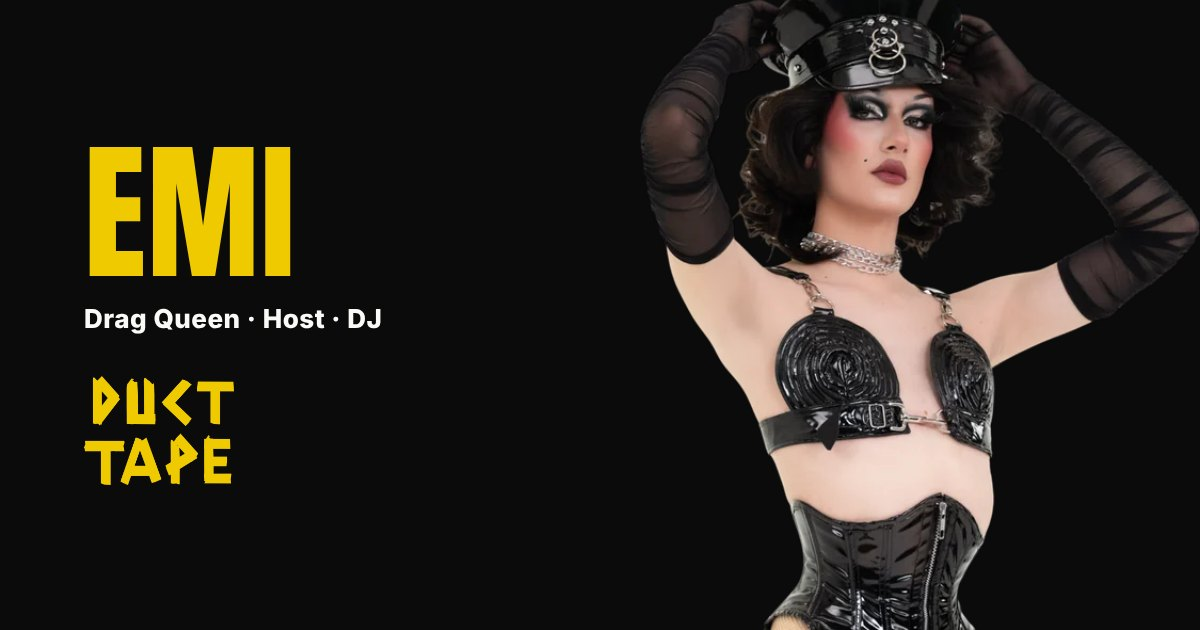
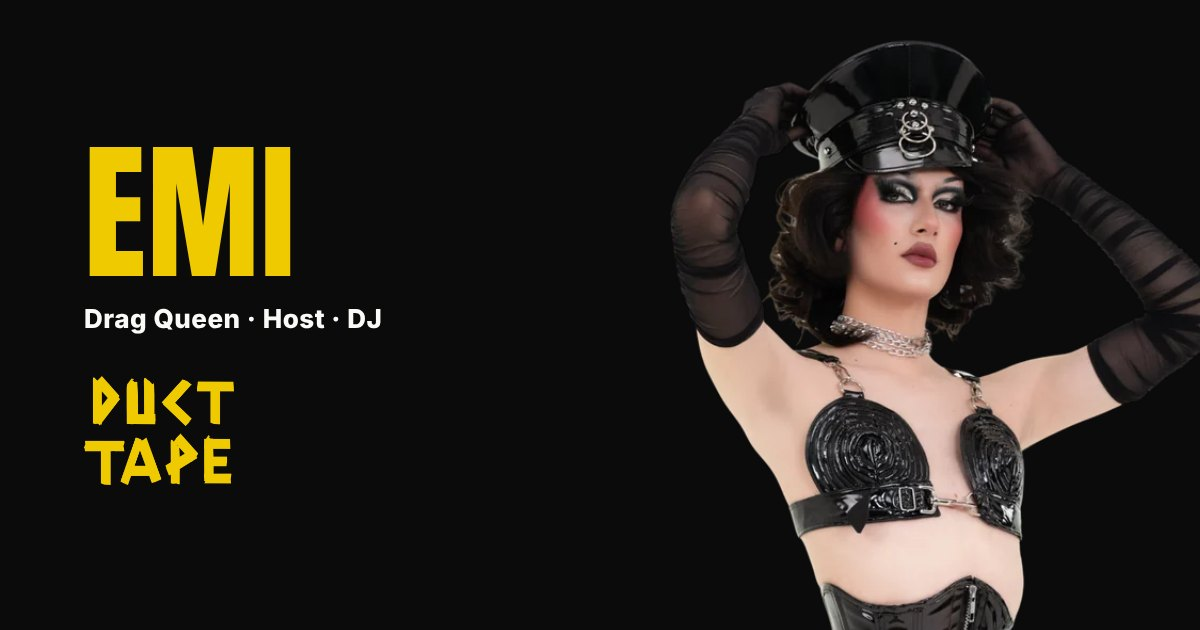
EMI-Vorschaubild: näher dran, Gesicht mittiger
Claude-Session: https://claude.ai/code/session_011roMvz3bhBK9sX119UmQVK

Changed region(s): [[0.5242, 0.0, 1.0, 1.0]]

diff --git a/en/emi.html b/en/emi.html
@@ -15,7 +15,7 @@
   <meta property="og:title" content="EMI – Book a drag queen host and DJ in Berlin | DUCT TAPE">
   <meta property="og:description" content="EMI is a drag queen, host and DJ from Berlin and part of the drag collective DUCT TAPE. Available to book as a drag host for events, shows, drag bingo and drag brunch, and as a drag DJ.">
   <meta property="og:url" content="https://ducttape.berlin/en/emi">
-  <meta property="og:image" content="https://ducttape.berlin/assets/img/share-emi.jpg">
+  <meta property="og:image" content="https://ducttape.berlin/assets/img/share-emi.jpg?v=2">
   <meta property="og:image:width" content="1200">
   <meta property="og:image:height" content="630">
   <meta name="twitter:card" content="summary_large_image">

diff --git a/emi.html b/emi.html
@@ -15,7 +15,7 @@
   <meta property="og:title" content="EMI – Drag Queen, Moderatorin und DJ aus Berlin buchen | DUCT TAPE">
   <meta property="og:description" content="EMI ist Drag Queen, Moderatorin und DJ aus Berlin, Teil des Drag-Kollektivs DUCT TAPE. Buchbar als Drag-Host für Events, Shows, Drag Bingo und Drag Brunch sowie als Drag-DJ.">
   <meta property="og:url" content="https://ducttape.berlin/emi">
-  <meta property="og:image" content="https://ducttape.berlin/assets/img/share-emi.jpg">
+  <meta property="og:image" content="https://ducttape.berlin/assets/img/share-emi.jpg?v=2">
   <meta property="og:image:width" content="1200">
   <meta property="og:image:height" content="630">
   <meta name="twitter:card" content="summary_large_image">
